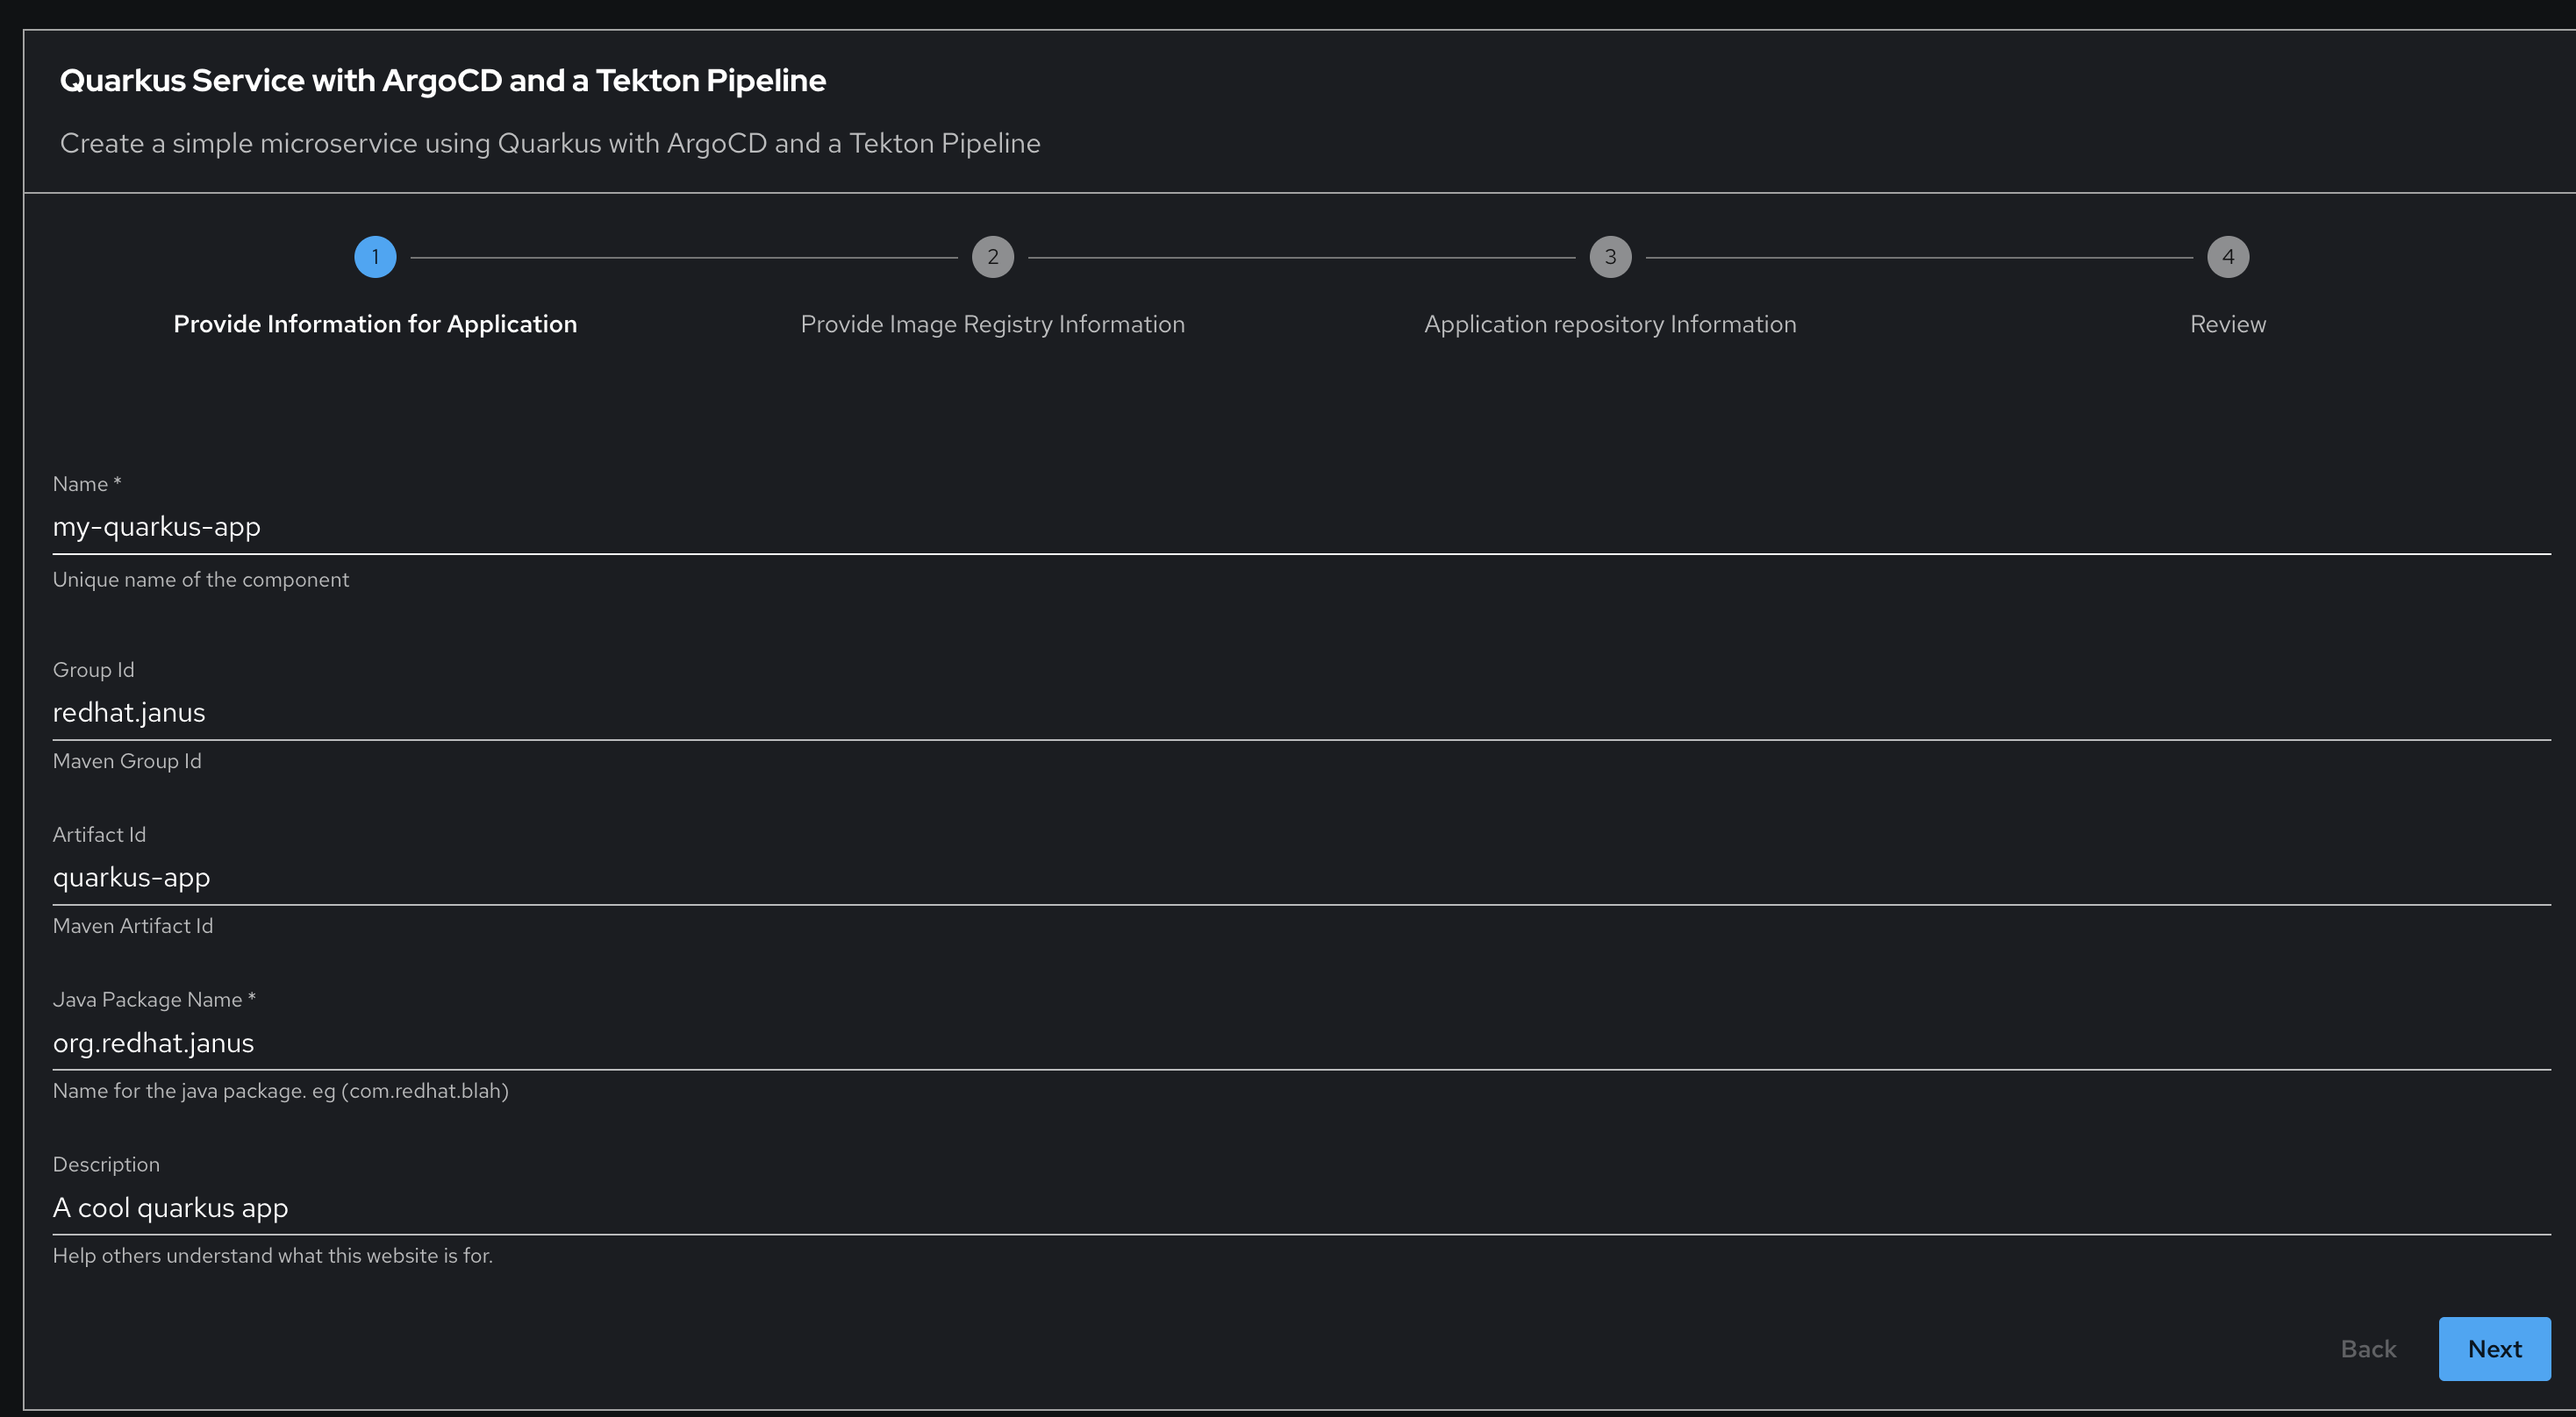
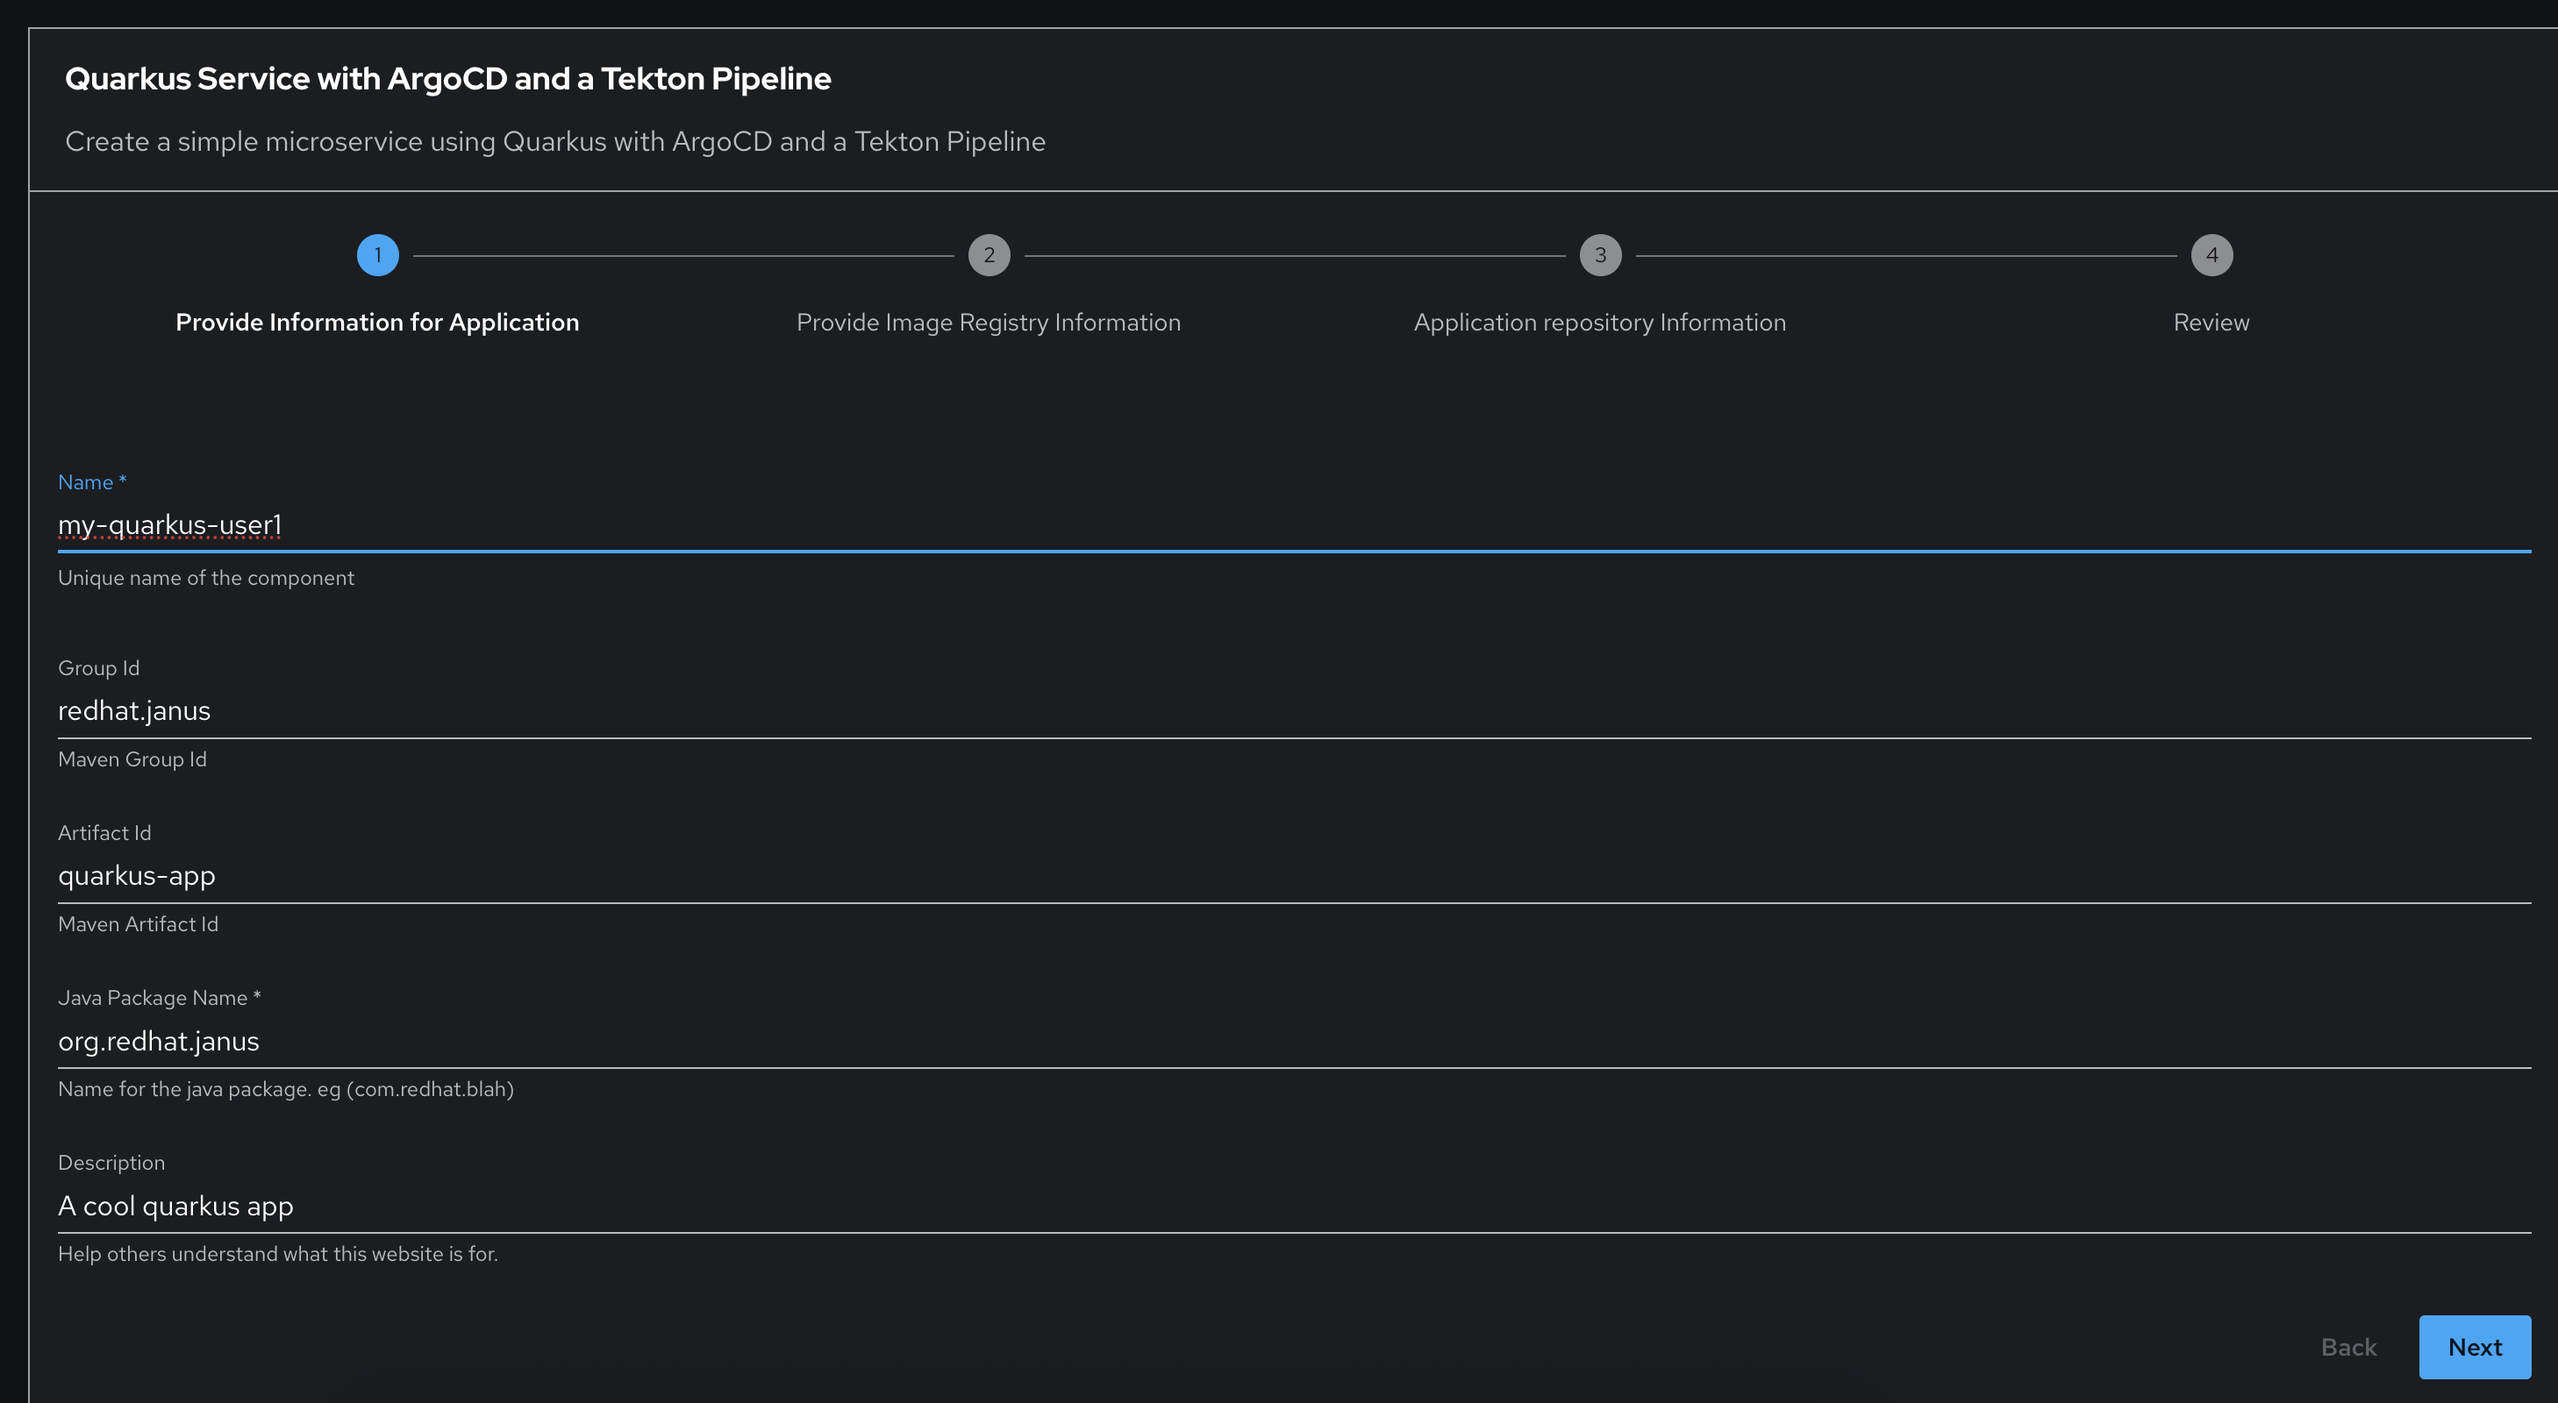
update

diff --git a/docs/developerhub.md b/docs/developerhub.md
@@ -15,8 +15,6 @@
   - [Summary](#summary)
 
 <!-- /TOC -->
-
-
 ## Red Hat Developer Hub
 
 The Red Hat® Developer Hub is a developer portal that promotes efficiency and collaboration by visually consolidating elements of the development process. It streamlines onboarding speed, developer productivity, and collaboration through a unified and open platform while reducing cognitive load and frustration for the development team. With pre-architected and supported approaches, and by centralizing technology resources, developer focus can center on delivering a competitive advantage for their organization.
@@ -182,7 +180,11 @@ Now, let’s assume that we onboard an application using a Golden Path. Here is 
 
 - Once you’ve chosen the template, you will be presented with a wizard which will guide you through the creation of your software component.  As seen in the GitLab project, the fields presented to you are configured in your golden path template and will be used to create the various artifacts of your software component.
 - The first part of the template requires you to complete the metadata required for the application.  You will be creating a software component called my-quarkus-app.
-- Leave the defaults and click Next Step
+- Change Name to `my-quarkus-userX`, change X to your username
+
+  ![](../images/devhub/dh-73.png)
+
+- Leave other defaults and click Next Step
   
   ![](../images/devhub/dh-18.png)
 
